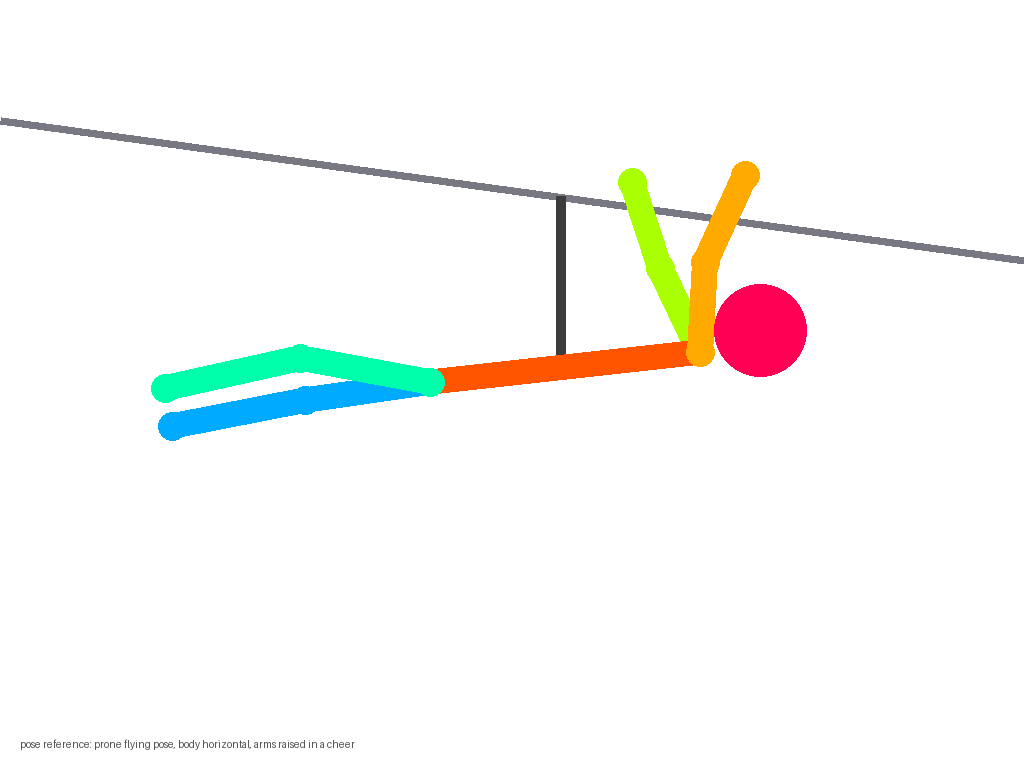
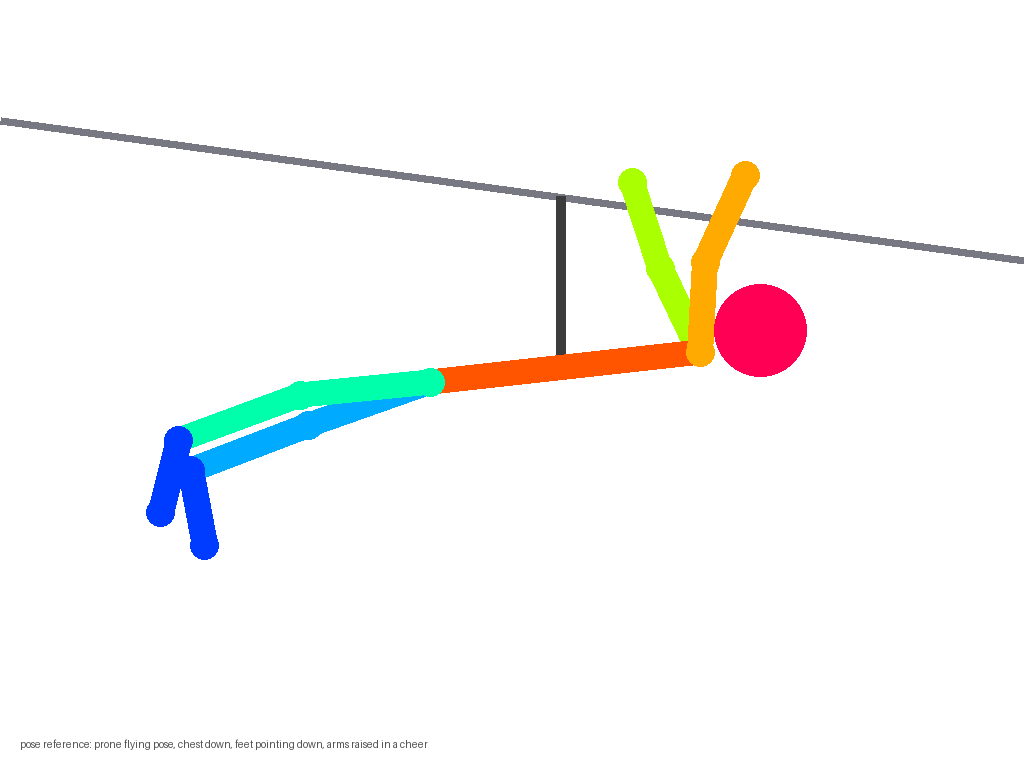
semi-realistic style, prone pose with feet down

Changed region(s): [[0.125, 0.4375, 0.4062, 0.75], [0.1875, 0.9688, 0.25, 1.0], [0.2812, 0.9688, 0.3125, 1.0]]

diff --git a/src/souvenir/poses.py b/src/souvenir/poses.py
@@ -18,14 +18,18 @@ COLORS = {
     "leg_r": (0, 255, 170),
     "leg_l": (0, 170, 255),
     "head": (255, 0, 85),
+    "foot": (0, 60, 255),
 }
 
 BASE = {
     "head": (760, 330),
     "neck": (700, 352),
     "hip": (430, 382),
-    "knee_r": (300, 358), "ankle_r": (165, 388),
-    "knee_l": (305, 400), "ankle_l": (172, 426),
+    "knee_r": (300, 395), "ankle_r": (178, 440),
+    "knee_l": (308, 425), "ankle_l": (190, 470),
+    # feet point straight down toward the ground
+    "toe_r": (160, 512),
+    "toe_l": (204, 545),
 }
 
 ARMS = {
@@ -35,9 +39,9 @@ ARMS = {
 }
 
 LABELS = {
-    "prone_superman": "prone flying pose, body horizontal, arms stretched forward",
-    "prone_celebrate": "prone flying pose, body horizontal, arms raised in a cheer",
-    "prone_point": "prone flying pose, one arm forward, one arm pointing to the side",
+    "prone_superman": "prone flying pose, chest down, feet pointing down, arms stretched forward",
+    "prone_celebrate": "prone flying pose, chest down, feet pointing down, arms raised in a cheer",
+    "prone_point": "prone flying pose, chest down, feet pointing down, one arm forward, one to the side",
 }
 
 
@@ -58,11 +62,13 @@ def draw_pose(name: str, size: tuple[int, int] = (1024, 768)) -> Image.Image:
 
     limb("hip", "knee_l", COLORS["leg_l"])
     limb("knee_l", "ankle_l", COLORS["leg_l"])
+    limb("ankle_l", "toe_l", COLORS["foot"])
     limb("neck", "elbow_l", COLORS["arm_l"])
     limb("elbow_l", "wrist_l", COLORS["arm_l"])
     limb("neck", "hip", COLORS["torso"])
     limb("hip", "knee_r", COLORS["leg_r"])
     limb("knee_r", "ankle_r", COLORS["leg_r"])
+    limb("ankle_r", "toe_r", COLORS["foot"])
     limb("neck", "elbow_r", COLORS["arm_r"])
     limb("elbow_r", "wrist_r", COLORS["arm_r"])
     hx, hy = pts["head"]
